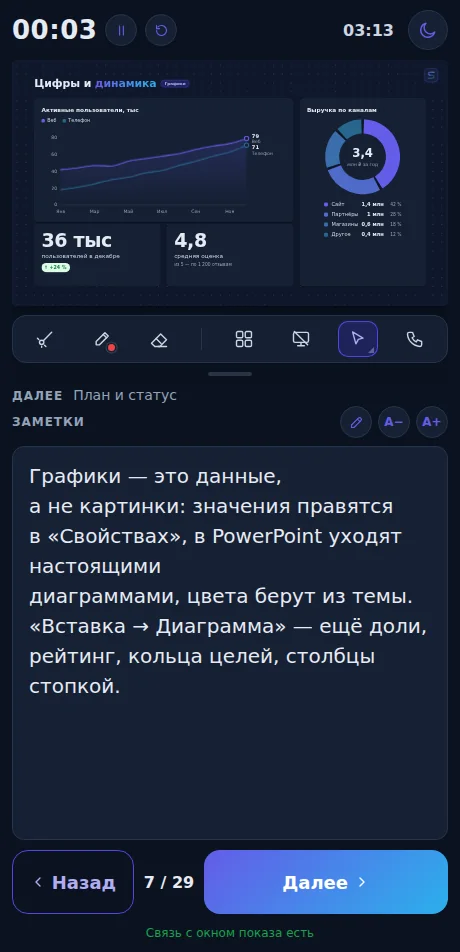
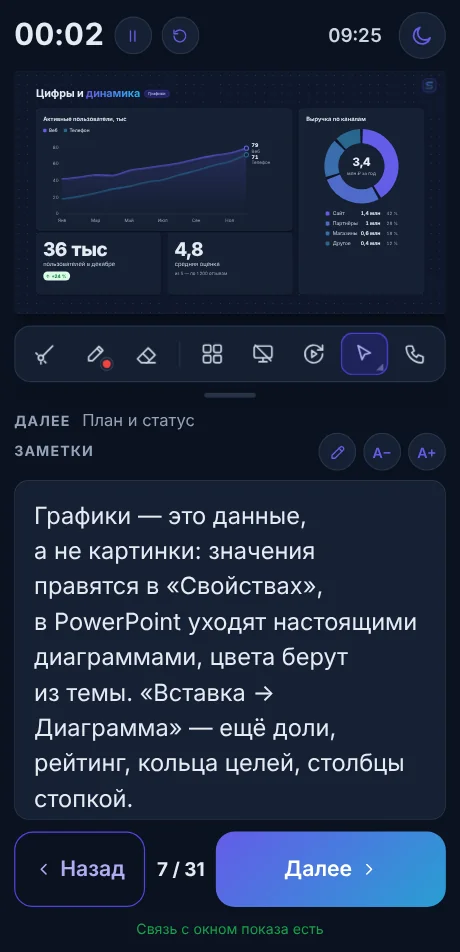
Шаблон: галерея — снимки «Сводки», «Кода слайда» и «Настроить ленту»; новый снимок пульта
- Галерея на слайде «Галерея и звук» — три снимка студии в светлой
  и тёмной теме с подписями, откуда открыть; рамка — по высоте снимка
  с подписью, описания под ней
- Пульт на телефоне переснят: 31 слайд, заметки без лишних переносов
- «Сводка»: «31 слайд», «2 320 слов» — число со словом в нужной форме

Claude-Session: https://claude.ai/code/session_01GftsZaKVp4igw2ytT8Njke

diff --git a/src/studio/tools.ts b/src/studio/tools.ts
@@ -5,7 +5,7 @@
  * Лицензии — программы, её библиотек и шрифтов, страницей в новом окне.
  */
 import type { Editor } from '../engine/editor/editor';
-import { fontItems, fontPicker } from '../engine/editor/font-picker';
+import { fontItems, fontPicker, plural } from '../engine/editor/font-picker';
 import { getAt, type Path } from '../engine/data';
 import { deckFonts, fontNameOk, fontStack } from '../engine/fonts';
 import { FONTS } from '../engine/text-style';
@@ -122,12 +122,12 @@ async function summary(h: ToolsHost, at: HTMLElement): Promise<void> {
   const slideLink = (i: number) => `<button type="button" class="st-link" data-go="${i}">слайд ${i + 1}</button>`;
   const html = `<h3 class="st-sum-h">Сводка презентации</h3>
 <div class="st-sum-tiles">
-  ${tile(num(deck.slides.length), 'слайдов')}
-  ${tile(num(slideWords), 'слов на слайдах')}
+  ${tile(num(deck.slides.length), plural(deck.slides.length, 'слайд', 'слайда', 'слайдов'))}
+  ${tile(num(slideWords), `${plural(slideWords, 'слово', 'слова', 'слов')} на слайдах`)}
   ${tile(noteWords ? `≈ ${minutes} мин` : '—', noteWords ? 'доклад по заметкам' : 'заметок нет')}
   ${tile(files ? size(total) : '—', 'файлы')}
 </div>
-${withNotes && withNotes < deck.slides.length ? `<p class="st-sum-note">Заметки есть у ${withNotes} из ${deck.slides.length} слайдов.</p>` : ''}
+${withNotes && withNotes < deck.slides.length ? `<p class="st-sum-note">Заметки есть у ${withNotes} из ${deck.slides.length} ${plural(deck.slides.length, 'слайда', 'слайдов', 'слайдов')}.</p>` : ''}
 ${heavy.length ? `<h4>Самые тяжёлые файлы</h4><ul class="st-sum-list">${heavy.map((f) => `<li><span class="st-sum-n" title="${esc(f.path)}">${esc(f.path.replace(/^assets\//, ''))}</span><b>${size(f.size)}</b>${f.slides.length ? slideLink(f.slides[0]) : '<i>оформление</i>'}</li>`).join('')}</ul>` : ''}
 ${fonts.length || idle.length ? `<h4>Шрифты</h4><ul class="st-sum-list">${fonts.map((f) => `<li><span class="st-sum-n" style="font-family:${esc(FONTS[f.name]?.css ?? fontStack(f.name))}">${esc(fontLabel(f.name))}</span>${f.state ? `<small>${esc(f.state)}</small>` : '<small class="warn" title="Шрифт не встроен: без него на компьютере текст будет другим">не встроен</small>'}<button type="button" class="st-link" data-font="${esc(f.name)}">заменить</button></li>`).join('')}${idle.map((n) => `<li><span class="st-sum-n" style="font-family:${esc(fontStack(n))}">${esc(n)}</span><small>не используется</small><button type="button" class="st-link" data-unfont="${esc(n)}" title="Убрать файл шрифта (в библиотеке он останется)">убрать</button></li>`).join('')}</ul>` : ''}
 ${unused.length ? `<div class="st-sum-unused"><span>Не используются: ${unused.length} ${unused.length === 1 ? 'файл' : unused.length < 5 ? 'файла' : 'файлов'} · ${size(unused.reduce((a, f) => a + f.size, 0))}</span><button type="button" class="btn ghost small" data-trash title="${esc(unused.map((f) => f.path.replace(/^assets\//, '')).join('\n'))}">Убрать в корзину</button></div>` : ''}`;

diff --git a/src/engine/editor/font-picker.ts b/src/engine/editor/font-picker.ts
@@ -15,7 +15,8 @@ export interface FontItem {
   weights?: number;
 }
 
-const plural = (n: number, one: string, few: string, many: string) => {
+/** Слово при числе: «1 слайд», «3 слайда», «31 слайд», «12 слайдов» */
+export const plural = (n: number, one: string, few: string, many: string) => {
   const d = n % 10;
   const h = n % 100;
   return d === 1 && h !== 11 ? one : d >= 2 && d <= 4 && (h < 12 || h > 14) ? few : many;
